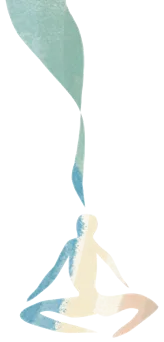
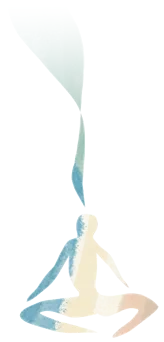
Yoga dos sonhos: a fumaça que sai da cabeça some devagar no alto, em vez de cortar seco; cache osirion-v6
Claude-Session: https://claude.ai/code/session_01SsDfntgaFTsDvc7o5CCuVT

Changed region(s): [[0.0305, 0.0, 0.5183, 0.3216]]

diff --git a/app/sw.js b/app/sw.js
@@ -1,6 +1,6 @@
 // Service worker do Osirion: guarda o app para abrir sem internet (à noite, em modo avião) e mostra os lembretes.
 importScripts("imagens.js");
-const CACHE = "osirion-v5", FB = "osirion-firebase", FONTES = "osirion-fontes";
+const CACHE = "osirion-v6", FB = "osirion-firebase", FONTES = "osirion-fontes";
 // Na instalação já guarda o app e todas as imagens (uma por uma: se alguma falhar, as outras ficam guardadas).
 const BASE = ["./", "index.html", "conteudo.js", "capsulas.js", "programa.js", "alvos.js", "imagens.js", "firebase-config.js", "manifest.webmanifest", "icone-192.png"];
 self.addEventListener("install", e => {
